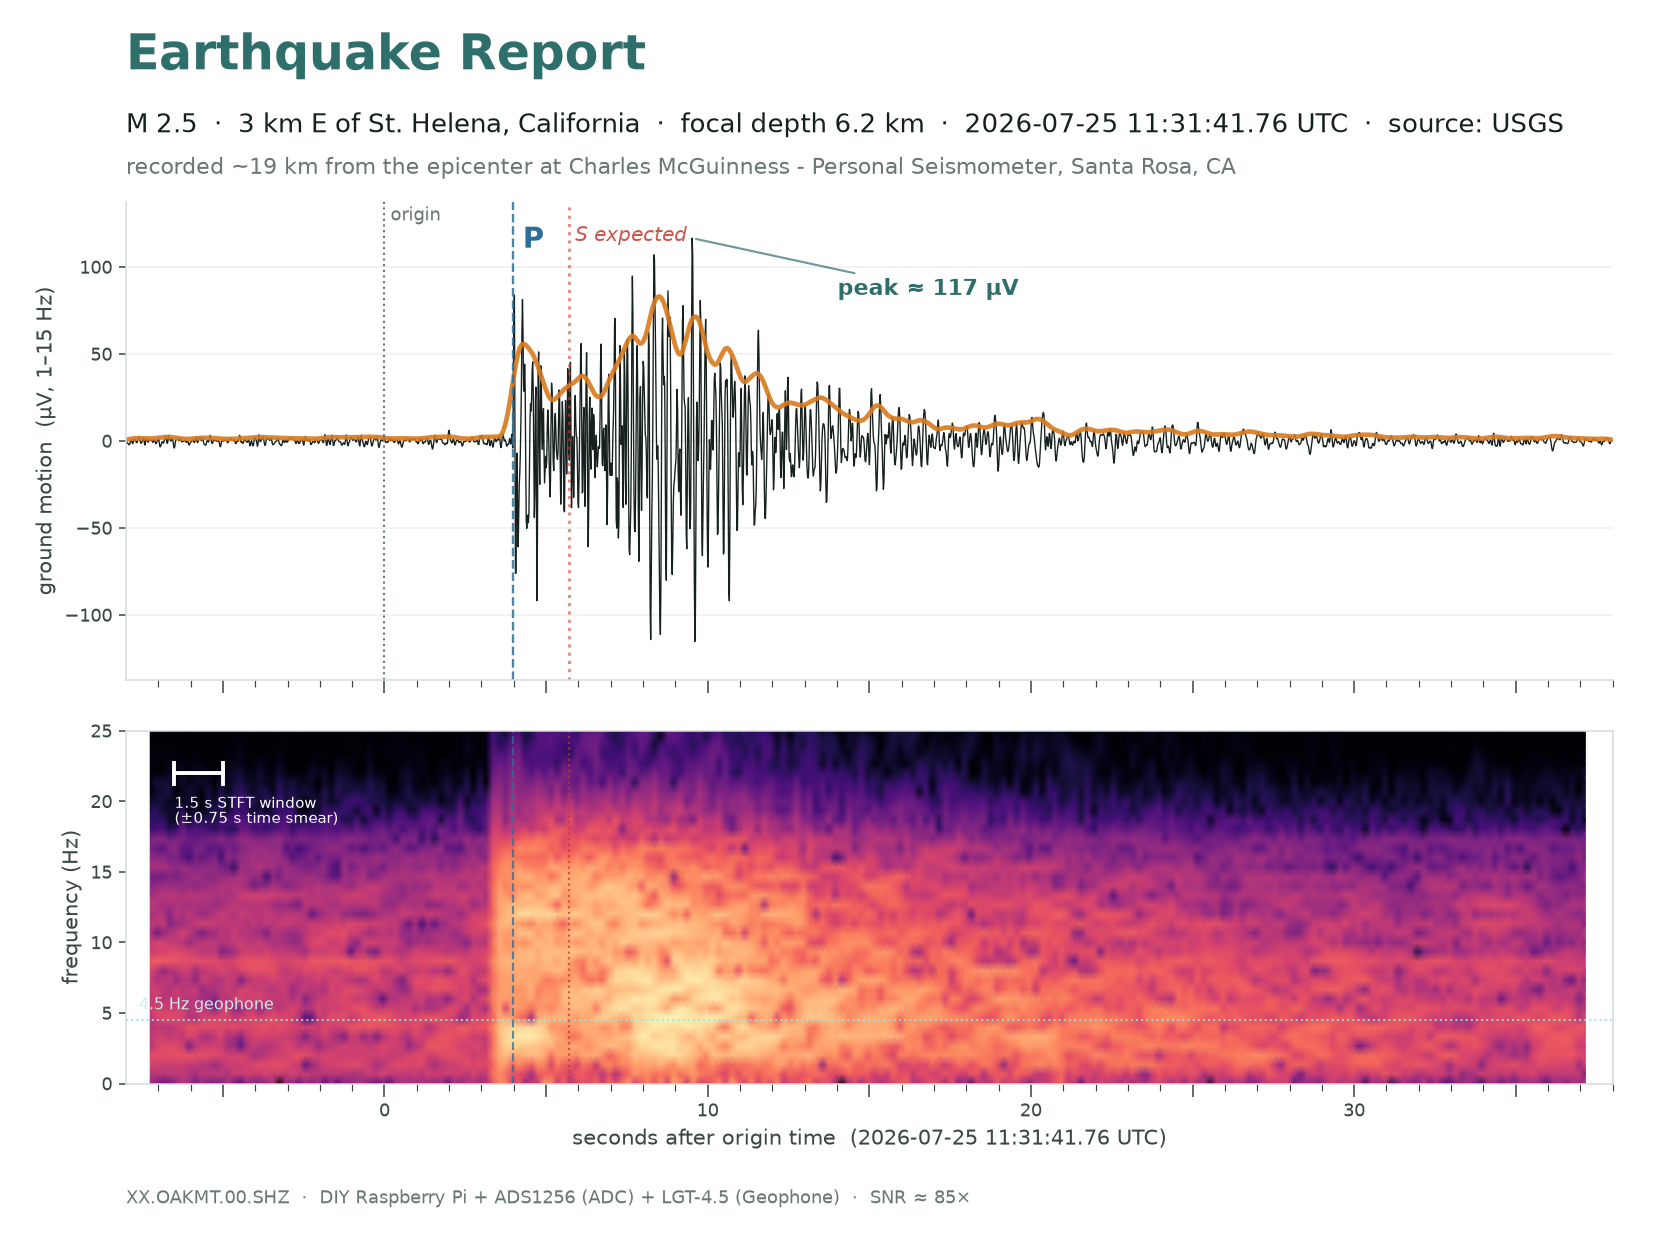
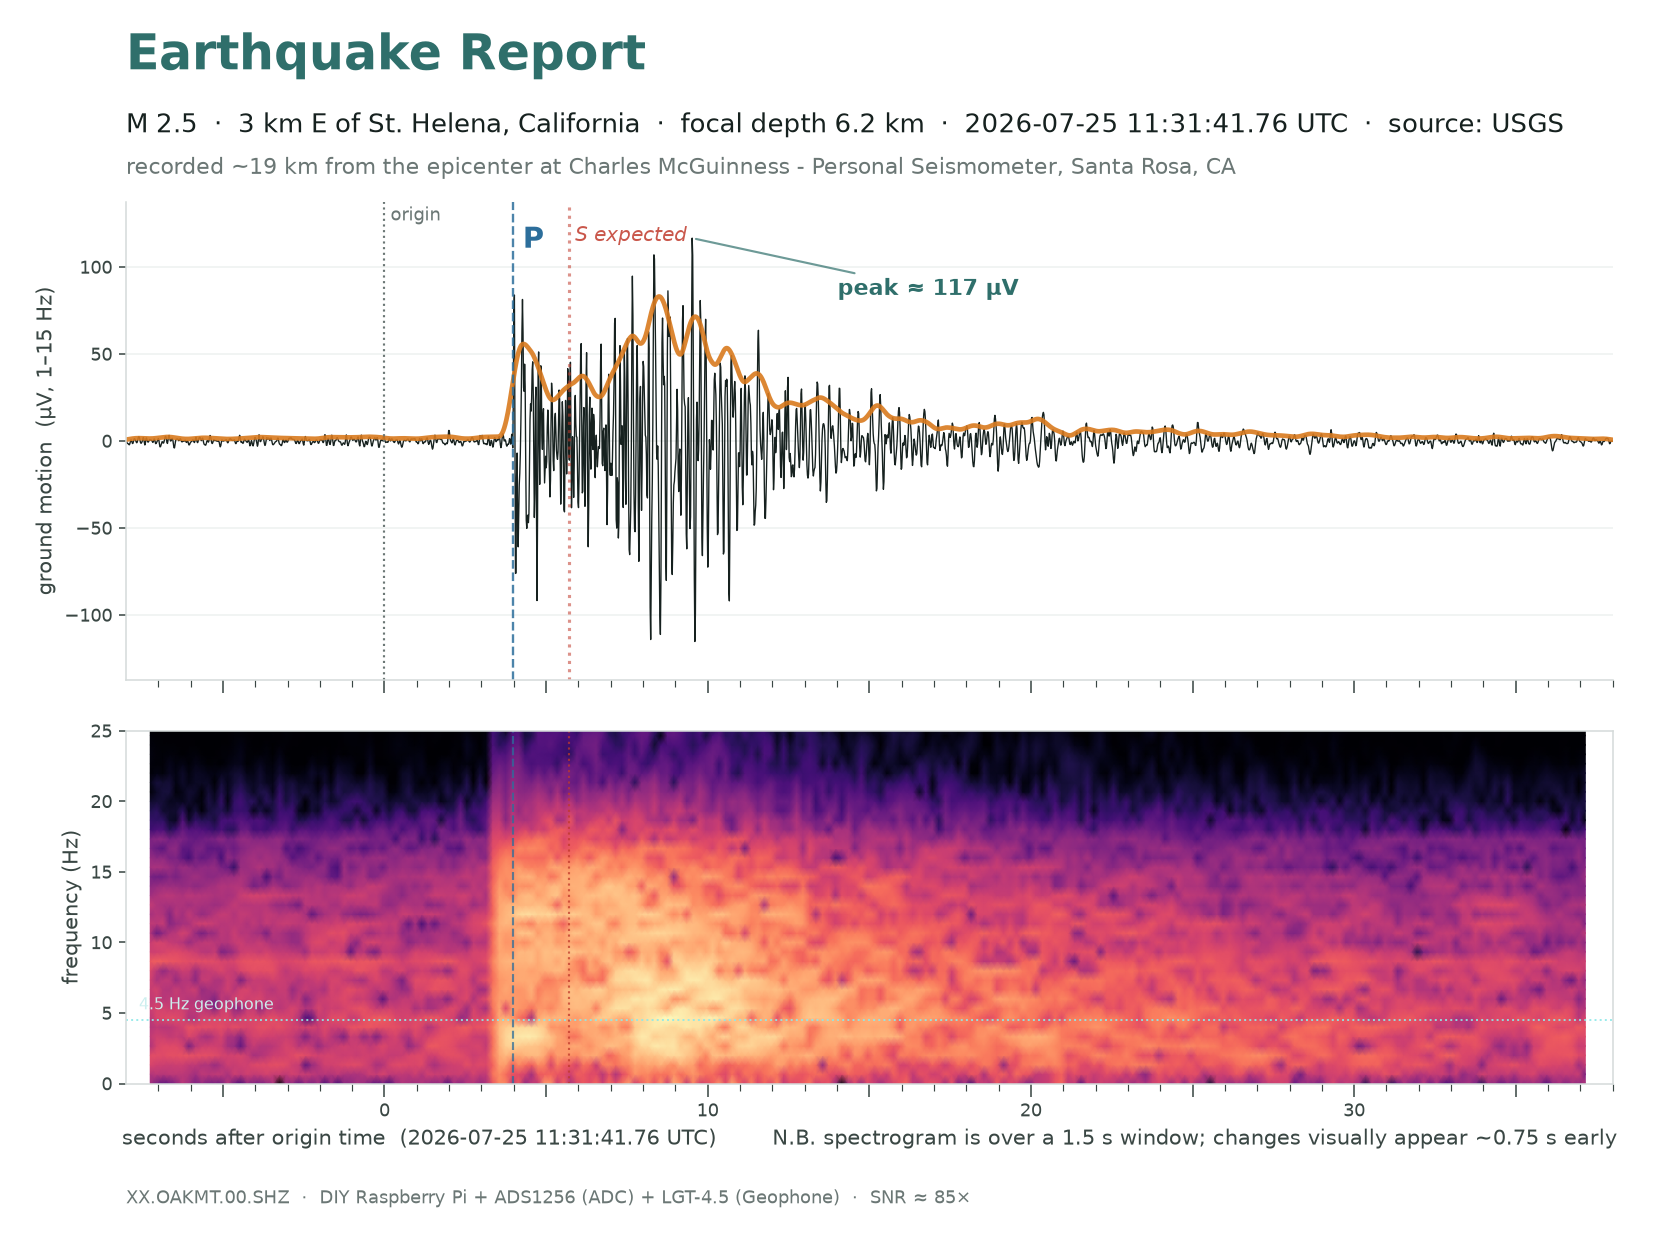
quake_share: move spectrogram time-resolution caveat to the axis line (drop the in-plot bar)

Changed region(s): [[0.0619, 0.8976, 0.8667, 0.9286], [0.0929, 0.5881, 0.1857, 0.65], [0.9286, 0.8976, 0.9595, 0.9286]]

diff --git a/analysis/quake_share.py b/analysis/quake_share.py
@@ -191,17 +191,8 @@ def main():
         for xt, col, ls in [(p_t, BLUE, "--"), (s_exp, RED, ":")]:
             if xt is not None:
                 axsp.axvline(xt, color=col, ls=ls, lw=1.1, alpha=0.75)
-        # time-resolution bar: the STFT window is 1.5 s wide, so a sharp onset smears
-        # +/-0.75 s (energy looks ~0.75 s "early"). Show the window width so nobody is misled.
-        wsec = npg / fs
-        xb, yb = t[0] + 1.5, ytop * 0.88
-        axsp.plot([xb, xb + wsec], [yb, yb], color="white", lw=2.0)
-        for xc in (xb, xb + wsec):
-            axsp.plot([xc, xc], [yb - ytop * 0.03, yb + ytop * 0.03], color="white", lw=2.0)
-        axsp.text(xb, yb - ytop * 0.06,
-                  f"{wsec:.1f} s STFT window\n(±{wsec / 2:.2f} s time smear)",
-                  color="white", fontsize=7.5, ha="left", va="top", linespacing=1.1)
         axsp.tick_params(colors="#3a4744", labelsize=9)
+        spec_win_s = npg / fs                        # window length -> the N.B. on the axis line
 
     # x-axis: per-second ticks (elongated at 5 s, labelled at 10 s) on the bottom panel
     bottom = axsp if axsp is not None else ax
@@ -214,8 +205,11 @@ def main():
         a.tick_params(axis="x", which="major", length=6.5, color="#3a4744")
     if axsp is not None:
         ax.tick_params(labelbottom=False)            # waveform shares x; labels on the spectrogram
-    bottom.set_xlabel(f"seconds after origin time  ({origin_disp} UTC)",
-                      fontsize=11, color="#3a4744")
+    xlab = f"seconds after origin time  ({origin_disp} UTC)"
+    if axsp is not None:
+        xlab += (f"        N.B. spectrogram is over a {spec_win_s:.1f} s window; "
+                 f"changes visually appear ~{spec_win_s / 2:.2f} s early")
+    bottom.set_xlabel(xlab, fontsize=11, color="#3a4744")
 
     # titles
     fig.text(0.075, 0.945, args.title, fontsize=25, fontweight="bold", color=TEAL)
